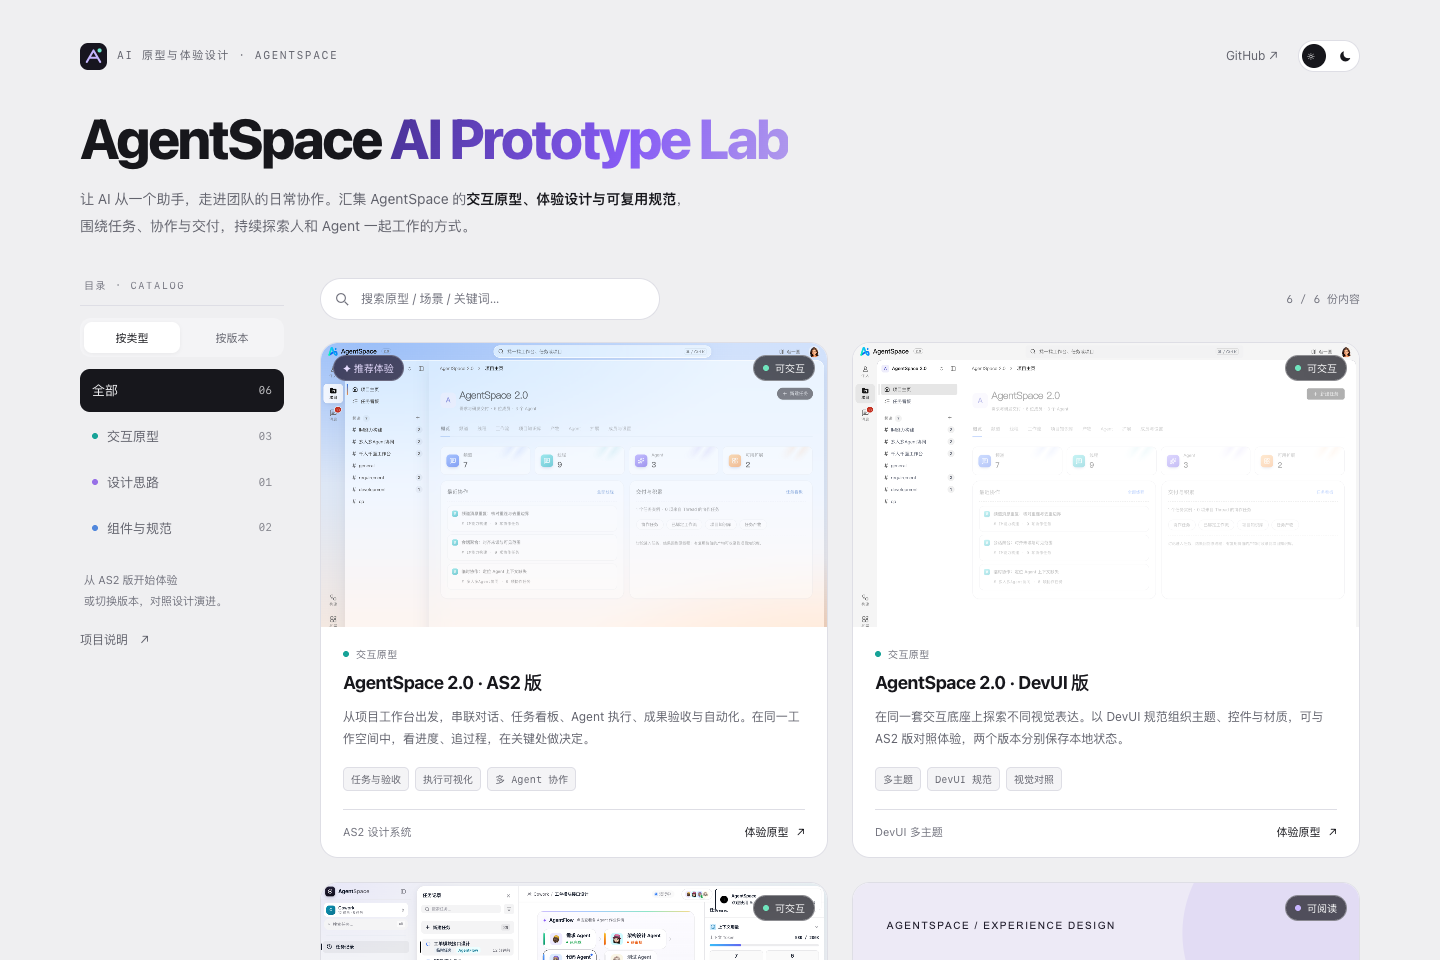
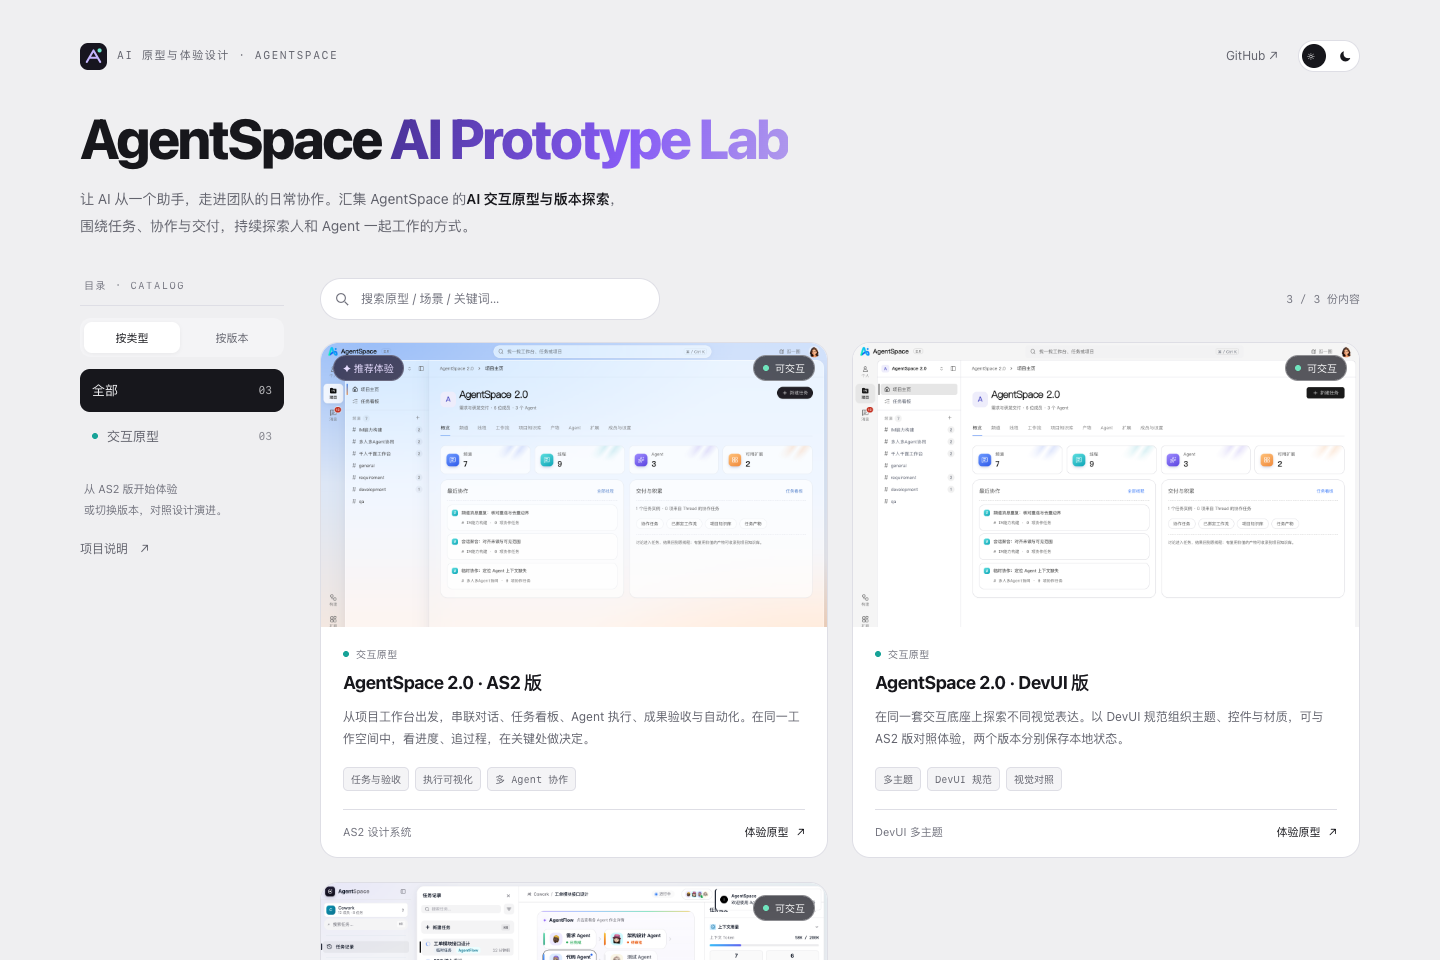
Show three prototypes and rename classic version to 1.0

diff --git a/index.html b/index.html
@@ -3,7 +3,7 @@
 <head>
 <meta charset="utf-8">
 <meta name="viewport" content="width=device-width,initial-scale=1">
-<meta name="description" content="AgentSpace AI 原型与体验设计材料库：AS2、DevUI、经典版交互原型，以及设计规范与可复用 Skill。">
+<meta name="description" content="AgentSpace AI 原型聚合页：AS2、DevUI 与 1.0 交互原型。">
 <meta name="color-scheme" content="light dark">
 <title>AgentSpace · AI Prototype Lab</title>
 <link rel="icon" type="image/svg+xml" href="assets/logo.svg">
@@ -31,7 +31,7 @@ h1{font-size:clamp(34px,4.8vw,56px);font-weight:800;letter-spacing:-.045em;line-
   </div>
   <header>
     <h1>AgentSpace <span class="gradient">AI Prototype Lab</span></h1>
-    <p class="lead">让 AI 从一个助手，走进团队的日常协作。汇集 AgentSpace 的<strong>交互原型、体验设计与可复用规范</strong>，<br>围绕任务、协作与交付，持续探索人和 Agent 一起工作的方式。</p>
+    <p class="lead">让 AI 从一个助手，走进团队的日常协作。汇集 AgentSpace 的<strong>AI 交互原型与版本探索</strong>，<br>围绕任务、协作与交付，持续探索人和 Agent 一起工作的方式。</p>
   </header>
   <div class="layout">
     <aside class="sidebar" aria-label="资源分类">
@@ -44,9 +44,9 @@ h1{font-size:clamp(34px,4.8vw,56px);font-weight:800;letter-spacing:-.045em;line-
     <main id="main" tabindex="-1">
       <div class="toolbar"><label class="search"><svg viewBox="0 0 24 24" aria-hidden="true"><circle cx="10.5" cy="10.5" r="6.5"/><path d="m16 16 5 5"/></svg><input id="q" type="search" aria-label="搜索原型、场景或关键词" placeholder="搜索原型 / 场景 / 关键词…" autocomplete="off"></label><span class="result" id="result" role="status" aria-live="polite"></span></div>
       <div class="grid" id="grid"></div>
-      <div class="empty" id="empty" hidden><h2>还没有匹配的内容</h2><p>试试「任务」「主题」或「Skill」，也可以清除筛选重新浏览。</p><button class="reset" id="reset">清除筛选</button></div>
-      <noscript><div class="noscript">启用 JavaScript 可使用分类与搜索。也可直接打开：<br><a href="demo-as2/">AS2 原型</a> · <a href="demo-as2-devui/">DevUI 原型</a> · <a href="demo-classic.html">经典版原型</a> · <a href="aurora-ink-design/references/template.html">Aurora Ink 规范</a> · <a href="https://github.com/Vinniechenyu/AgentSpace/blob/main/EXPERIENCE.md">体验设计思路</a> · <a href="https://github.com/Vinniechenyu/AgentSpace/blob/main/skills/agentspace-workspace-prototype.md">原型 Skill</a></div></noscript>
-      <p class="scope">原型用于产品与体验设计交流，使用示例数据与模拟执行；真实模型、外部工具及审批系统尚未接入。文档资源在 GitHub 中阅读。</p>
+      <div class="empty" id="empty" hidden><h2>还没有匹配的内容</h2><p>试试「任务」「主题」或「AgentFlow」，也可以清除筛选重新浏览。</p><button class="reset" id="reset">清除筛选</button></div>
+      <noscript><div class="noscript">启用 JavaScript 可使用分类与搜索。也可直接打开：<br><a href="demo-as2/">AS2 原型</a> · <a href="demo-as2-devui/">DevUI 原型</a> · <a href="demo-classic.html">1.0 原型</a></div></noscript>
+      <p class="scope">原型用于产品与体验设计交流，使用示例数据与模拟执行；真实模型、外部工具及审批系统尚未接入。</p>
     </main>
   </div>
   <footer><span>© 2026 AgentSpace · 内容仅用于设计交流</span><span>由想法到原型，持续生长。 <a href="https://github.com/Vinniechenyu/AgentSpace">查看仓库 ↗</a></span></footer>
@@ -55,13 +55,10 @@ h1{font-size:clamp(34px,4.8vw,56px);font-weight:800;letter-spacing:-.045em;line-
 const items = [
   {title:'AgentSpace 2.0 · AS2 版',type:'交互原型',version:'2.0 · AS2',href:'demo-as2/',image:'as2.png',pinned:true,desc:'从项目工作台出发，串联对话、任务看板、Agent 执行、成果验收与自动化。在同一工作空间中，看进度、追过程，在关键处做决定。',tags:['任务与验收','执行可视化','多 Agent 协作'],meta:'AS2 设计系统',action:'体验原型'},
   {title:'AgentSpace 2.0 · DevUI 版',type:'交互原型',version:'2.0 · DevUI',href:'demo-as2-devui/',image:'devui.png',desc:'在同一套交互底座上探索不同视觉表达。以 DevUI 规范组织主题、控件与材质，可与 AS2 版对照体验，两个版本分别保存本地状态。',tags:['多主题','DevUI 规范','视觉对照'],meta:'DevUI 多主题',action:'体验原型'},
-  {title:'AgentSpace · 经典版',type:'交互原型',version:'经典版',href:'demo-classic.html',image:'classic.png',desc:'早期团队级 Agent 工作空间探索。从事件、定时与临时任务进入，体验 AgentFlow 编排、执行看板、会话流和人工确认节点。',tags:['团队空间','AgentFlow','人工介入'],meta:'早期交互探索 · 原样保留',action:'回看原型'},
-  {title:'AgentSpace · 体验设计思路',type:'设计思路',version:'通用资产',href:'https://github.com/Vinniechenyu/AgentSpace/blob/main/EXPERIENCE.md',image:'experience.svg',desc:'把系统的复杂性翻译成团队熟悉的任务、看板、审批与交付。记录早期设计命题、体验目标、信息架构与关键决策，理解方案背后的取舍。',tags:['设计命题','信息架构','体验策略'],meta:'设计文档 · GitHub',action:'阅读设计思路'},
-  {title:'Aurora Ink · 设计规范',type:'组件与规范',version:'通用资产',href:'aurora-ink-design/references/template.html',image:'aurora.png',desc:'保留早期设计语言的完整样本：瓷白画布、墨色操作、紫青点缀，以及 Token、基础组件和起步模板。可直接查看组件，作为独立资产复用。',tags:['Design Token','组件预览','起步模板'],meta:'早期视觉系统 · HTML',action:'浏览组件'},
-  {title:'Workspace Prototype · Skill',type:'组件与规范',version:'通用资产',href:'https://github.com/Vinniechenyu/AgentSpace/blob/main/skills/agentspace-workspace-prototype.md',image:'skill.svg',desc:'把单文件智能体工作台的搭建经验沉淀成中英双语 Skill。覆盖模块隔离、页面路由、会话流、面板状态与交互验证，复用原型方法。',tags:['可复用 Skill','单文件原型','中英双语'],meta:'原型方法 · GitHub',action:'阅读 Skill'}
+  {title:'AgentSpace · 1.0',type:'交互原型',version:'1.0',href:'demo-classic.html',image:'classic.png',desc:'早期团队级 Agent 工作空间探索。从事件、定时与临时任务进入，体验 AgentFlow 编排、执行看板、会话流和人工确认节点。',tags:['团队空间','AgentFlow','人工介入'],meta:'早期交互探索 · 原样保留',action:'回看原型'},
 ];
-const colors={'交互原型':'#17a398','设计思路':'#9770e7','组件与规范':'#5187dc'};
-const categories={type:['交互原型','设计思路','组件与规范'],version:['2.0 · AS2','2.0 · DevUI','经典版','通用资产']};
+const colors={'交互原型':'#17a398'};
+const categories={type:['交互原型'],version:['2.0 · AS2','2.0 · DevUI','1.0']};
 let dimension='type',category='全部';
 const grid=document.querySelector('#grid'),nav=document.querySelector('#nav'),q=document.querySelector('#q');
 function renderNav(){
